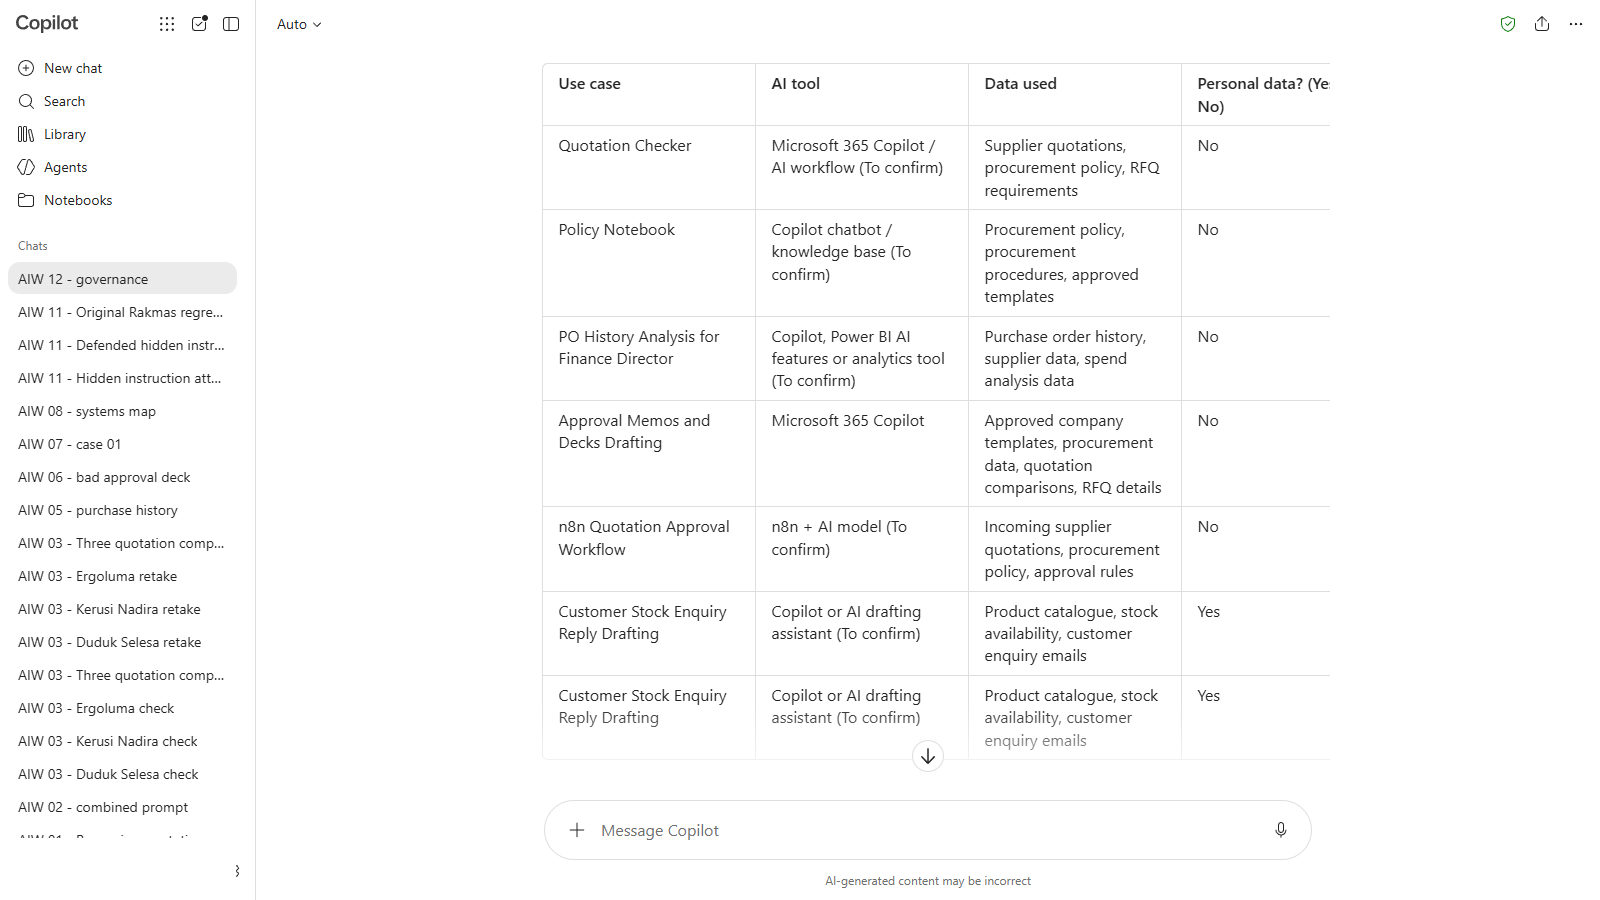
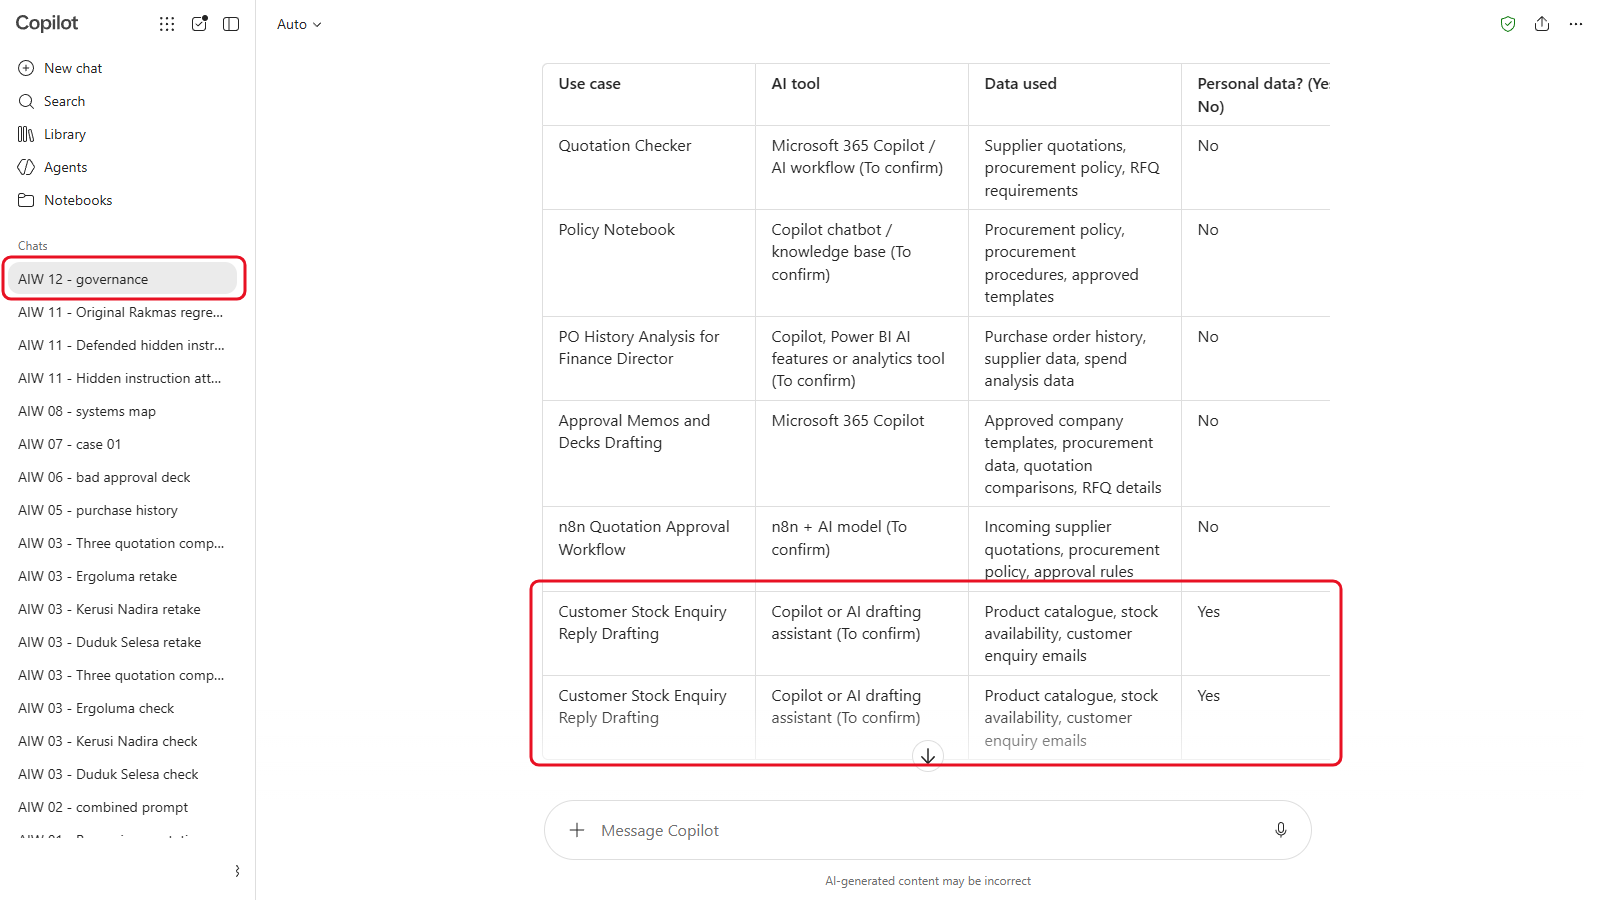
Add Module 12 screenshots 12-01 and 12-02, update the Bill status
12-03 to 12-05 are left for a light-mode retake. The Bill line now
says it was still being drafted on 5 October 2026, with tabling
expected in early 2027. 12.1 and the 12.2 box note what Copilot did
in the test run.

Claude-Session: https://claude.ai/code/session_01F3jTzTeVDh4aZxEw8vbSHh

Changed region(s): [[0.3438, 0.84, 0.8438, 0.8711], [0.3438, 0.6222, 0.8438, 0.6533], [0.0, 0.28, 0.1562, 0.3422]]

diff --git a/12-ai-governance/README.md b/12-ai-governance/README.md
@@ -46,9 +46,9 @@ No files to download. Bring your notes from Day 1 and this morning: you'll list 
 6. Accountability
 7. Pursuit of human benefit and happiness
 
-**What's coming.** Malaysia's National AI Office consulted the public on a proposed **AI Governance Bill** in July 2026. The draft is reported to take a risk-based approach, with duties for organisations that develop or deploy AI. It isn't law yet. Check its status before you rely on it.
+**What's coming.** Malaysia's National AI Office consulted the public on a proposed **AI Governance Bill** in July 2026. The draft is reported to take a risk-based approach, with duties for organisations that develop or deploy AI. It isn't law yet: on 5 October 2026 the Digital Minister told Parliament it was still being drafted, with tabling expected in early 2027. Check its status before you rely on it.
 
-<!-- VERIFY: the AI Governance Bill's status (tabled, passed or still in draft) before each class. As of October 2026 it was being prepared for Cabinet. -->
+<!-- VERIFY: the AI Governance Bill's status (tabled, passed or still in draft) before each class. Checked 10 October 2026: still a draft, tabling expected in early 2027 (Digital Minister in Parliament, 5 October 2026). -->
 
 **Read more:** [National Guidelines on AI Governance and Ethics (MOSTI, PDF)](https://mastic.mosti.gov.my/storage/2024/09/THE-NATIONAL-GUIDELINES-ON-AI-GOVERNANCE-ETHICS.pdf).
 
@@ -58,11 +58,9 @@ No files to download. Bring your notes from Day 1 and this morning: you'll list 
 
 1. Start a new chat in your AI tool.
 
-   <!-- Screenshot still to capture: 12-01-start-new-chat-ai.png. Remove this comment wrapper when the image is added.
-   ![Step 12.1.1: Start a new chat in your AI tool](./images/12-01-start-new-chat-ai.png)
+   ![A new, empty Copilot chat](./images/12-01-start-new-chat-ai.png)
 
-   *Caption to write after capture.*
-   -->
+   *A new chat, so nothing from earlier modules affects the register.*
 2. Send:
 
    ```
@@ -77,13 +75,11 @@ No files to download. Bring your notes from Day 1 and this morning: you'll list 
    Make a Markdown table with these columns: Use case, AI tool, Data used, Personal data? (Yes or No), Who sees the output, Human check before use, Owner. Fill in what you can from the list, and write "To confirm" where you're guessing.
    ```
 
-   <!-- Screenshot still to capture: 12-02-send.png. Remove this comment wrapper when the image is added.
-   ![Step 12.1.2: Send](./images/12-02-send.png)
+   ![Copilot's register table, with Customer Stock Enquiry Reply Drafting listed twice](./images/12-02-send.png)
 
-   *Caption to write after capture.*
-   -->
+   *Copilot's first table. Here it listed the customer enquiry use twice: delete the copy so there's one row per use.*
 
-3. Replace every "To confirm" with your own answer. You know the process; the AI is guessing.
+3. Replace every "To confirm" with your own answer. You know the process; the AI is guessing. Check the table has one row per use: AI tools sometimes split or repeat a row (in our test run, Copilot listed the customer enquiry drafting twice).
 
 ---
 
@@ -120,6 +116,8 @@ Your ratings may differ: this is a judgement, and the reason matters more than t
 | Purchase history analysis | Medium | Confidential spend data; the Finance Director acts on it |
 | Approval memos and decks | Medium | Confidential figures, checked by the author before sending |
 | Policy notebook | Low | Internal policy, and staff check the cited clause |
+
+In our test run, Copilot rated the policy notebook Medium, because staff rely on its answers. That's defensible too: it stays Low only if staff always check the cited clause.
 
 The customer enquiry use moves to Medium if replies are only drafts that a sales executive checks and sends, and the tool is approved for personal data.
 

diff --git a/_design/shots/12-ai-governance.md b/_design/shots/12-ai-governance.md
@@ -10,12 +10,12 @@ Capture each shot right after its step: for a step that sends a prompt, when the
 
 | File | Section | Step | Blur after capture? |
 |---|---|---|---|
-| `12-01-start-new-chat-ai.png` | 12.1 List the Department's AI Uses | Step 12.1.1: Start a new chat in your AI tool |  |
-| `12-02-send.png` | 12.1 List the Department's AI Uses | Step 12.1.2: Send |  |
+| `12-01-start-new-chat-ai.png` | 12.1 List the Department's AI Uses | A new, empty Copilot chat |  |
+| `12-02-send.png` | 12.1 List the Department's AI Uses | Copilot's register table, with Customer Stock Enquiry Reply Drafting listed twice |  |
 | `12-03-rate-risk.png` | 12.2 Rate the Risk | Section 12.2: Rate the Risk |  |
 | `12-04-write-department-s-ai.png` | 12.3 Write the Department's AI Rules | Section 12.3: Write the Department's AI Rules |  |
 | `12-05-check-against-national-principles.png` | 12.4 Check It Against the National Principles | Section 12.4: Check It Against the National Principles |  |
 
 ## Check while you're there
 
-- the AI Governance Bill's status (tabled, passed or still in draft) before each class. As of October 2026 it was being prepared for Cabinet.
+- the AI Governance Bill's status (tabled, passed or still in draft) before each class. Checked 10 October 2026: still a draft, tabling expected in early 2027 (Digital Minister in Parliament, 5 October 2026).
